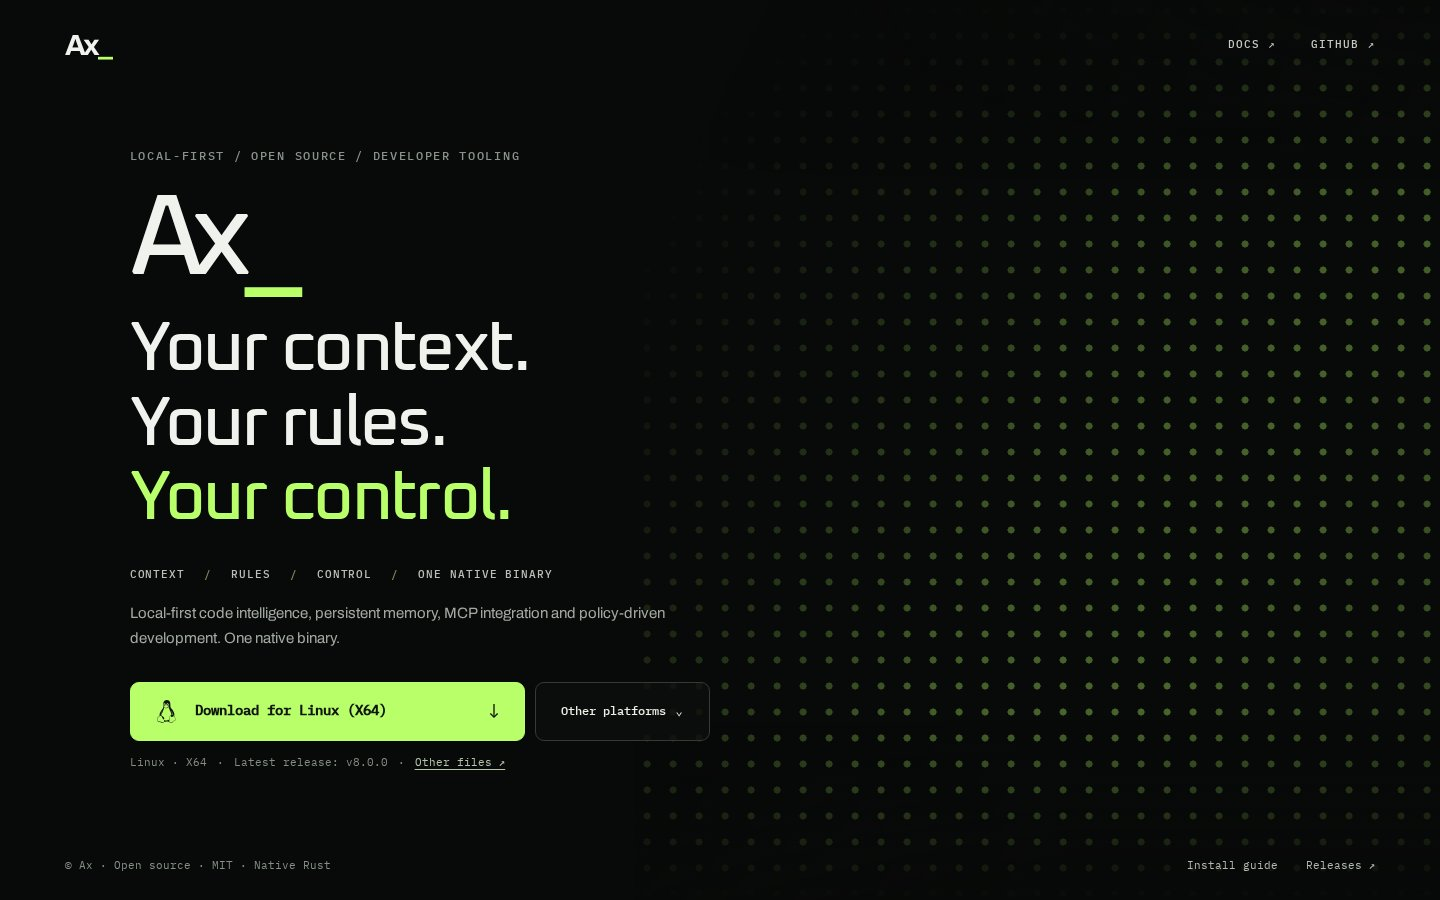
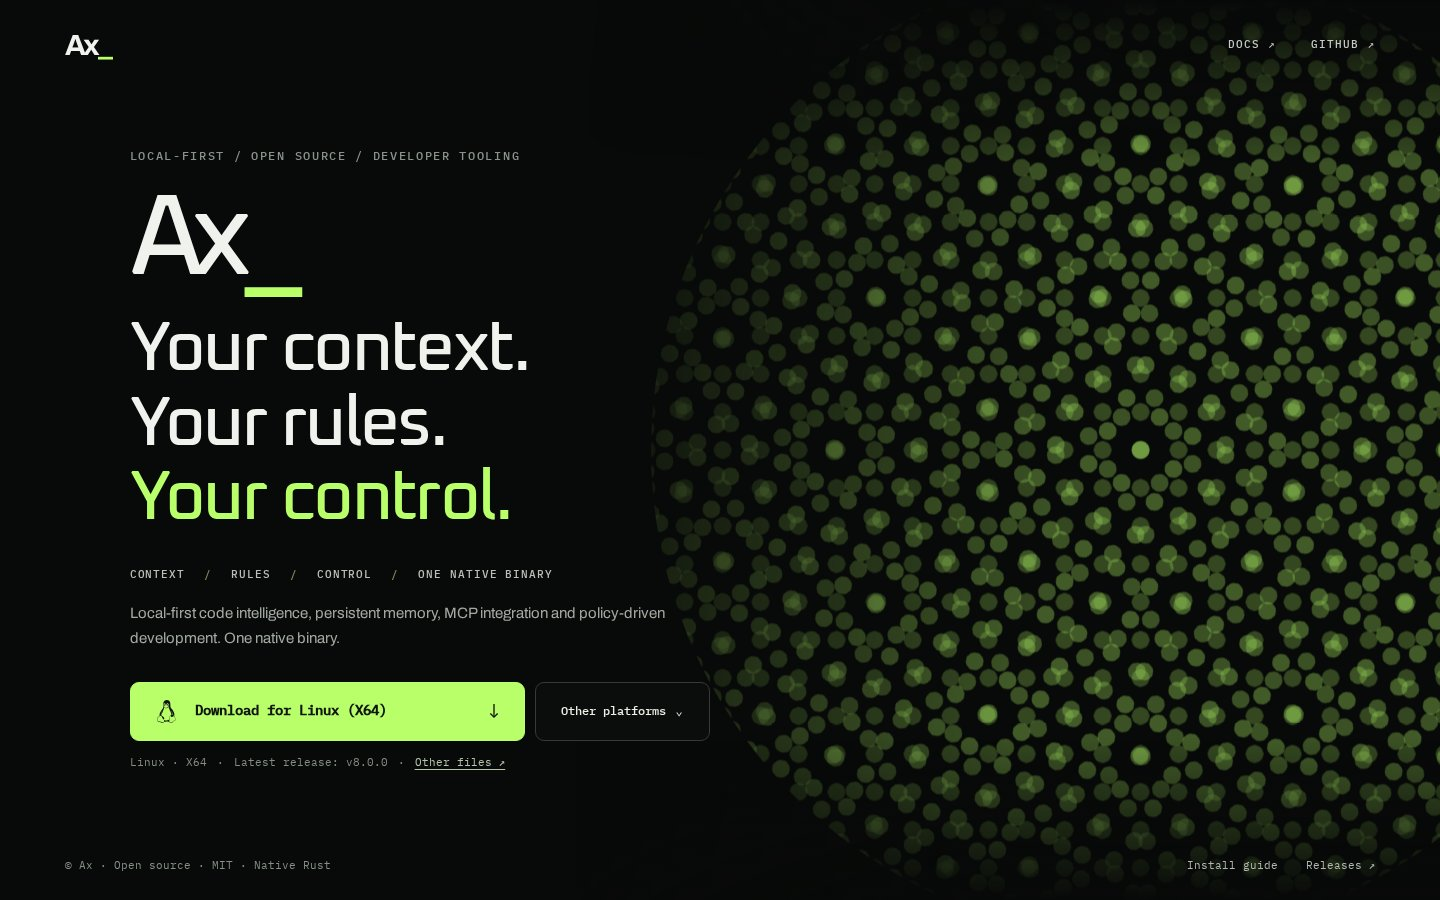
feat(site): use coarse circular print-screen rosette

Changed region(s): [[0.4688, 0.0311, 1.0, 0.9644]]

diff --git a/site/src/styles/minimal-home.css b/site/src/styles/minimal-home.css
@@ -54,22 +54,23 @@ body.ax-landing{--ax-bg:#080a09;--ax-ink:#f0f3ed;--ax-muted:#a3aaa2;--ax-dim:#6f
 .ax-landing .ax-footer a{color:#b1b9b0}
 .ax-landing .ax-footer a:hover{color:var(--ax-lime)}
 .ax-landing .ax-footer .ax-footer-links{display:flex;gap:28px}
-/* A single registered halftone grid. The highlight uses the exact same dots;
-   only its luminance mask moves, so dots never collide or form interference noise. */
-.ax-landing .ax-halftone{position:absolute;z-index:1;inset:0 0 0 44%;overflow:hidden;pointer-events:none;opacity:.85;mask-image:linear-gradient(120deg,transparent 10%,#000 70%);-webkit-mask-image:linear-gradient(120deg,transparent 10%,#000 70%)}
-.ax-landing .ax-halftone::after{content:'';position:absolute;inset:0;background:linear-gradient(180deg,var(--ax-bg),transparent 20%,transparent 80%,var(--ax-bg));pointer-events:none}
-.ax-landing .ax-halftone-grid{position:absolute;inset:-52px;animation:ax-halftone-drift 24s ease-in-out infinite alternate}
-.ax-landing .ax-halftone-dots{position:absolute;inset:0;background-image:radial-gradient(circle,rgba(185,255,106,.28) 0 3.3px,transparent 3.8px);background-size:26px 26px;background-position:0 0}
-.ax-landing .ax-halftone-highlight{background-image:radial-gradient(circle,rgba(185,255,106,.65) 0 3.3px,transparent 3.8px);mask-image:linear-gradient(115deg,transparent 30%,#000 50%,transparent 70%);-webkit-mask-image:linear-gradient(115deg,transparent 30%,#000 50%,transparent 70%);mask-size:260% 100%;-webkit-mask-size:260% 100%;animation:ax-halftone-light 14s ease-in-out infinite alternate}
-@keyframes ax-halftone-drift{from{transform:translate3d(-6px,0,0)}to{transform:translate3d(6px,-6px,0)}}
-@keyframes ax-halftone-light{from{mask-position:0% 0;-webkit-mask-position:0% 0;opacity:.4}to{mask-position:100% 0;-webkit-mask-position:100% 0;opacity:.85}}
+/* Printed rosette: coarse round screens at deliberate 30-degree intervals.
+   All screens move as one circular composition; their relative angles stay fixed. */
+.ax-landing .ax-halftone{position:absolute;z-index:1;inset:0 0 0 40%;overflow:hidden;pointer-events:none;opacity:.78;mask-image:linear-gradient(100deg,transparent 2%,#000 55%);-webkit-mask-image:linear-gradient(100deg,transparent 2%,#000 55%)}
+.ax-landing .ax-halftone::after{content:'';position:absolute;inset:0;background:linear-gradient(180deg,var(--ax-bg),transparent 18%,transparent 82%,var(--ax-bg));pointer-events:none}
+.ax-landing .ax-halftone-grid{position:absolute;width:clamp(600px,68vw,1050px);aspect-ratio:1;right:-22%;top:50%;border-radius:50%;overflow:hidden;isolation:isolate;transform:translateY(-50%);animation:ax-halftone-rosette 60s ease-in-out infinite alternate}
+.ax-landing .ax-halftone-dots{position:absolute;inset:-24%;background-image:radial-gradient(circle,rgba(185,255,106,.5) 0 8.5px,transparent 9px);background-size:38px 38px;background-position:center;transform-origin:center}
+.ax-landing .ax-halftone-screen-one{opacity:.65;transform:rotate(0deg)}
+.ax-landing .ax-halftone-screen-two{opacity:.85;transform:rotate(30deg)}
+.ax-landing .ax-halftone-screen-three{opacity:.75;transform:rotate(60deg)}
+@keyframes ax-halftone-rosette{from{transform:translateY(-50%) rotate(-2deg)}to{transform:translateY(-50%) rotate(2deg)}}
 .ax-landing .ax-skip{position:fixed;top:-100px;left:12px;z-index:20;background:var(--ax-lime);color:#101510;padding:10px}.ax-landing .ax-skip:focus{top:10px}
 @media(min-width:900px){html:has(body.ax-landing),body.ax-landing{min-height:100%}.ax-landing .ax-page{min-height:100svh} }
 @media(min-width:900px) and (max-height:790px){.ax-landing .ax-header{height:64px;min-height:64px}.ax-landing .ax-footer{min-height:44px}.ax-landing .ax-eyebrow{margin-bottom:16px}.ax-landing .ax-display-word{font-size:clamp(60px,6.8vw,95px);margin-bottom:9px}.ax-landing .ax-headline{font-size:clamp(33px,4.15vw,60px)}.ax-landing .ax-feature-strip{margin-top:20px}.ax-landing .ax-explainer{margin-top:15px}.ax-landing .ax-download{margin-top:20px}.ax-landing .ax-download-primary{min-height:53px}}
 @media(max-width:899px){.ax-landing .ax-page{min-height:100svh;overflow:hidden}.ax-landing .ax-header{height:75px}.ax-landing .ax-main{padding:62px 27px 90px;align-items:start}.ax-landing .ax-content{width:min(650px,100%)}.ax-landing .ax-halftone{inset:5% -10% 15% 25%;opacity:.4}.ax-landing .ax-halftone::after{background:linear-gradient(90deg,#080a09 0%,transparent 78%),linear-gradient(180deg,#080a09 0%,transparent 40%,#080a09 100%)}}
 @media(max-width:600px){.ax-landing .ax-header{height:65px;padding-inline:23px}.ax-landing .ax-wordmark{font-size:26px}.ax-landing .ax-navigation{gap:19px}.ax-landing .ax-navigation a{font-size:10px}.ax-landing .ax-main{padding:69px 23px 70px}.ax-landing .ax-eyebrow{font-size:9px;margin-bottom:25px;letter-spacing:.08em}.ax-landing .ax-display-word{font-size:81px;margin-bottom:20px}.ax-landing .ax-headline{font-size:clamp(38px,9.6vw,58px)}.ax-landing .ax-feature-strip{gap:9px 10px;margin-top:29px;font-size:9px}.ax-landing .ax-feature-strip span+span::before{margin-right:10px}.ax-landing .ax-explainer{font-size:14px;margin-top:18px}.ax-landing .ax-download{margin-top:28px}.ax-landing .ax-download-row{flex-direction:column}.ax-landing .ax-download-primary{min-height:58px;font-size:12px;white-space:normal;padding:0 18px;gap:10px}.ax-landing .ax-other-platforms{min-height:48px;width:100%}.ax-landing .ax-platform-panel{width:100%;position:relative;bottom:auto;right:auto;margin:12px 0 0}.ax-landing .ax-download-controls{width:100%}.ax-landing .ax-footer{padding:20px 23px;flex-wrap:wrap;gap:9px;font-size:9px}.ax-landing .ax-footer .ax-footer-links{gap:16px}.ax-landing .ax-halftone{inset:10% -20% 18% 24%;opacity:.35}}
-@media(prefers-reduced-motion:reduce){.ax-landing .ax-halftone-grid,.ax-landing .ax-halftone-highlight{animation:none!important}.ax-landing *, .ax-landing *::before,.ax-landing *::after{scroll-behavior:auto!important;transition:none!important}}
-html[data-ax-motion='paused'] .ax-landing .ax-halftone-grid,html[data-ax-motion='paused'] .ax-landing .ax-halftone-highlight{animation-play-state:paused!important}
+@media(prefers-reduced-motion:reduce){.ax-landing .ax-halftone-grid{animation:none!important}.ax-landing *, .ax-landing *::before,.ax-landing *::after{scroll-behavior:auto!important;transition:none!important}}
+html[data-ax-motion='paused'] .ax-landing .ax-halftone-grid{animation-play-state:paused!important}
 /* Keep the platform selector aligned with the primary download control. */
 .ax-landing .ax-download-controls{display:flex;align-items:stretch}
 .ax-landing .ax-other-platforms{min-height:59px}

diff --git a/site/tests/home-minimal.test.ts b/site/tests/home-minimal.test.ts
@@ -29,13 +29,16 @@ test('Oxanium is bundled and used for the heading, not loaded from Google Fonts'
   assert.doesNotMatch(page, /fonts\.googleapis\.com|fonts\.gstatic\.com/);
 });
 
-test('registered halftone grid remains CSS-only, moving and accessible', () => {
+test('coarse circular print rosette remains CSS-only and respects reduced motion', () => {
   assert.match(home, /ax-halftone-grid/);
-  assert.match(home, /ax-halftone-highlight/);
-  assert.match(css, /26px 26px/);
-  assert.doesNotMatch(css, /ax-moire|mix-blend-mode|rotate\(/);
+  assert.match(home, /ax-halftone-screen-three/);
+  assert.match(css, /38px 38px/);
+  assert.match(css, /rotate\(30deg\)/);
+  assert.match(css, /rotate\(60deg\)/);
+  assert.match(css, /border-radius:50%/);
+  assert.doesNotMatch(css, /ax-moire|mix-blend-mode/);
   assert.match(css, /rgba\(185,255,106/);
-  assert.match(css, /@keyframes ax-halftone-light/);
+  assert.match(css, /@keyframes ax-halftone-rosette/);
   assert.match(css, /prefers-reduced-motion:reduce/);
   assert.match(css, /@media\(min-width:900px\)/);
   assert.doesNotMatch(css, /background-image:\s*url\(/);
